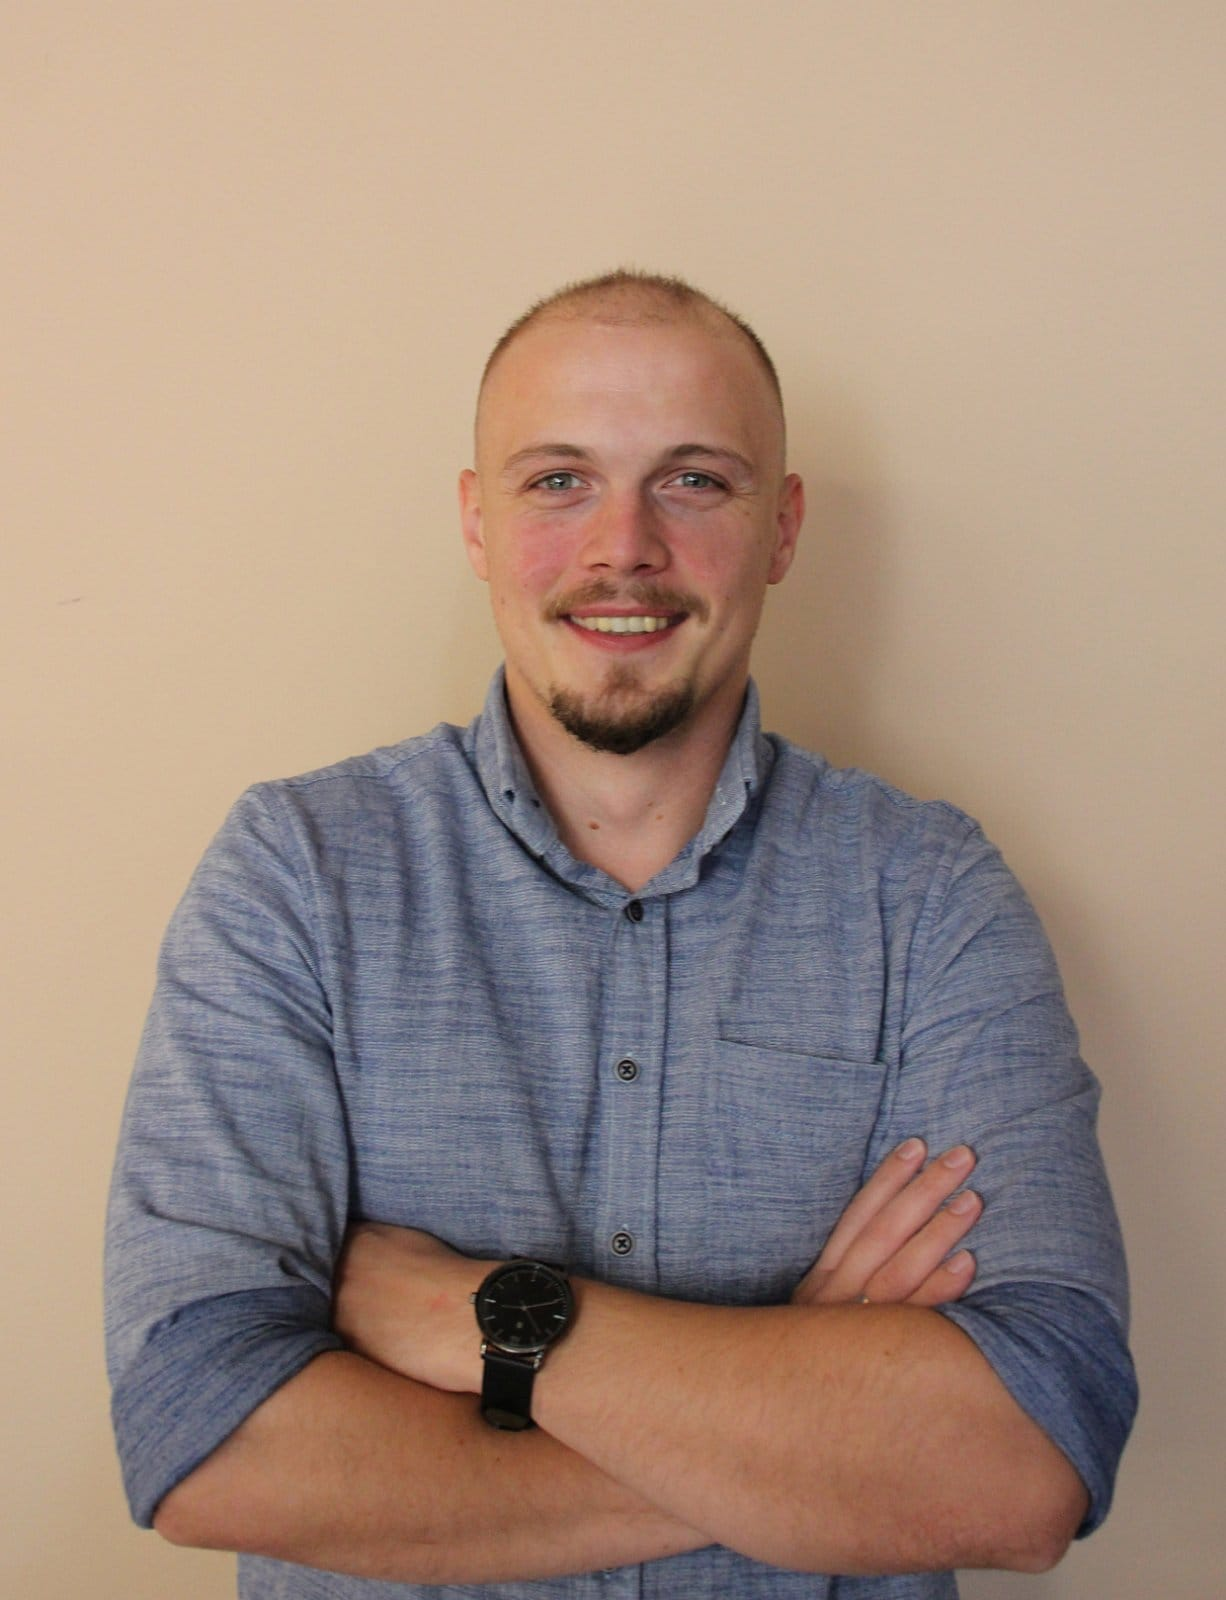
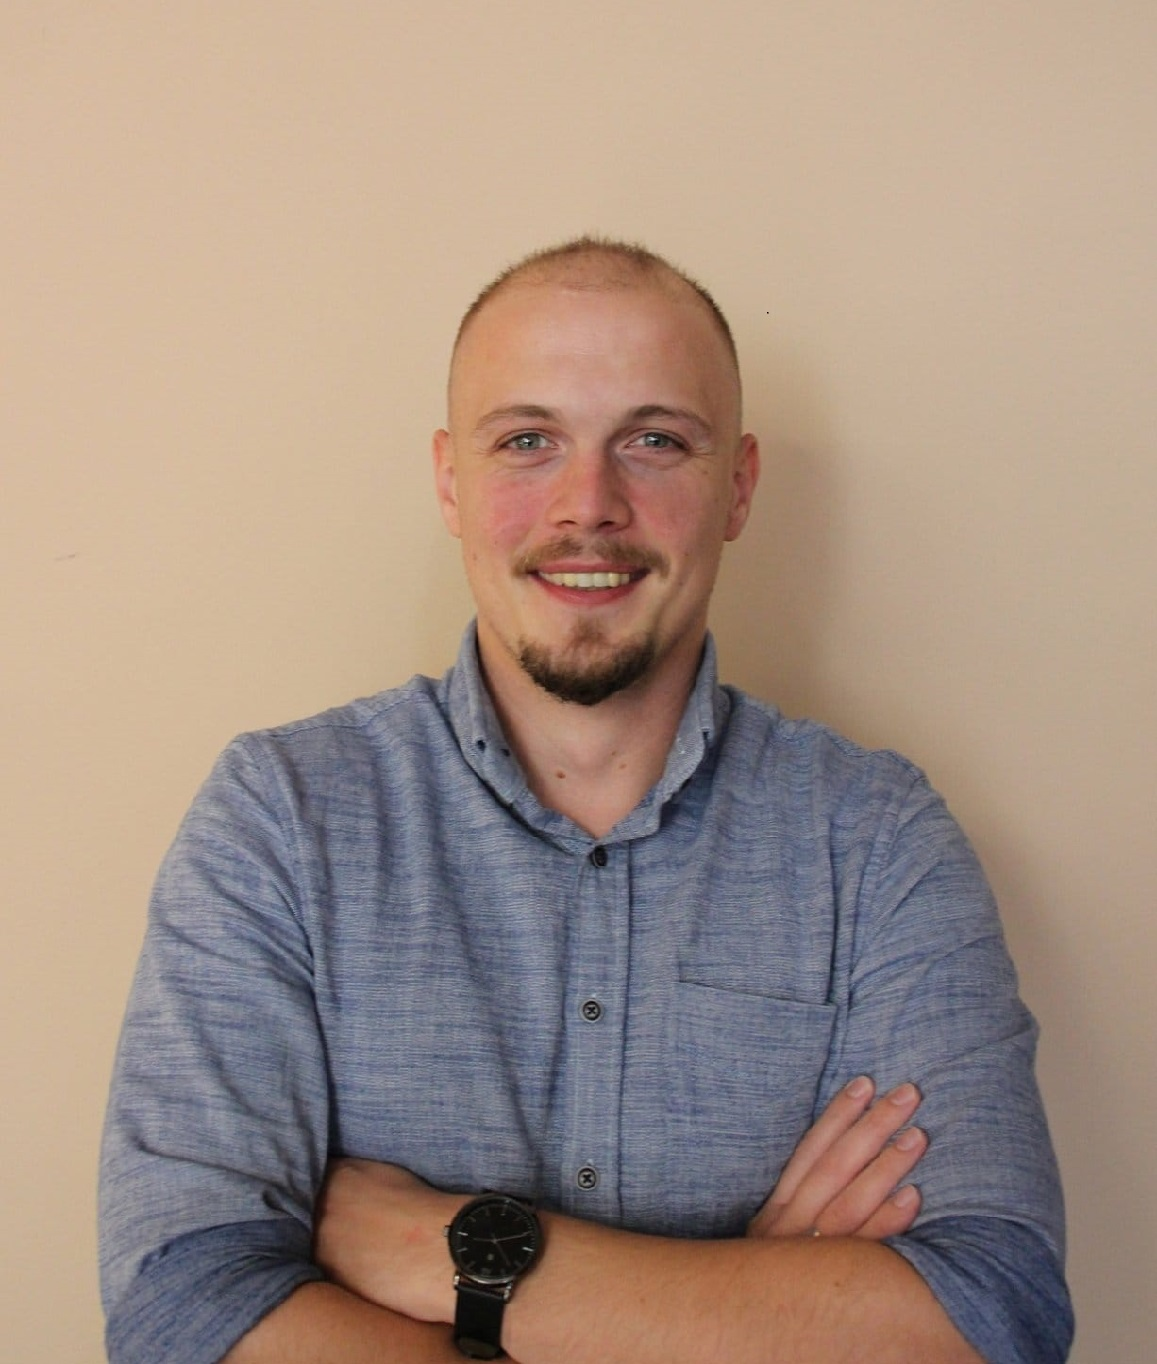
reservation update (responsiveness, animation)

Changed region(s): [[0.0622, 0.154, 0.9334, 1.0]]

diff --git a/style.css b/style.css
@@ -15,18 +15,31 @@ body {
   z-index: 9999;
 }
 #inputBoxes img {
-  border-radius: 300px;
+  border-radius: 5px; 
   border: 5px solid rgb(105, 30, 40);
   transition: 400ms;
-  margin: auto;
+  margin: 10px auto;
   background-color: #717171;
   opacity: 0.5;
   width:99%;
-  height: 300px;
+  /* height: 300px; */
   background-position:top;
 }
+#inputBoxes .fas{
+  margin-top: 20px;
+  margin-left:-40px;
+  position: absolute;
+  color:rgba(255, 255, 255, 0.101);
+
+}
+#inputBoxes .fas:hover {
+  cursor: pointer;
+}
 .active {
-  border: 5px solid rgb(42, 158, 32) !important;
+  border: 5px solid rgb(58, 104, 47) !important;
+  opacity: 1 !important;
+  color: rgb(58, 104, 47)!important;
+  background: rgba(0,0,0,0);
 }
 #inputBoxes h3 {
   text-align: center;
@@ -629,7 +642,7 @@ select {
   }
   #inputBoxes img {
 
-    height: 200px;
+    /* height: 200px; */
   }
 }
 @media (max-width: 1174px) {
@@ -688,7 +701,7 @@ select {
     margin-bottom: 5px;
   }
   #slogan img {
-    width: 150px;
+    width: 100px;
     margin: auto;
   }
 
@@ -747,6 +760,11 @@ select {
     grid-template-columns: 1fr 3fr;
     border: rgb(255, 255, 255) solid 2px;
     padding: 10px;
+  }
+  #inputBoxes {
+    display: grid;
+    grid-template-columns: 1fr;
+    grid-gap: 20px;
   }
 }
 
@@ -952,10 +970,6 @@ select {
   transition: background-color 0.6s ease;
 }
 
-.active,
-.dot:hover {
-  background-color: #717171;
-}
 
 /* Fading animation */
 .fade {

diff --git a/index.html b/index.html
@@ -224,13 +224,20 @@
       Zakazivawe
       <span id="zakaziOvde"><i class="fas fa-chevron-down fa-1x"></i> </span>
     </h1>
-   
+
 
     <div id="inputBoxes">
-      <h3>Du{an</h3>
-      <h3>Jovan</h3>
-      <img id="cvija" src="img/Dusan.jpeg" alt="" >
-      <img id="zabac" src="img/Jovan.jpeg"  alt="" >
+      <div>
+        <h3>Du{an</h3>
+          <img id="cvija" src="img/Dusan.jpeg" alt="" >
+          <i id="cvijaCheck" style="border:0px !important;" class="fas fa-check-circle fa-2x"></i>
+      </div>
+      <div>
+        <h3>Jovan</h3>
+        <img  id="zabac" src="img/Jovan.jpeg"  alt="" >
+        <i id="zabacCheck" style="border:0px !important;" class="fas fa-check-circle fa-2x"></i>
+      </div>
+
       <div>
         <h4>Izaberi datum:</h4>
         <input type="date" id="datum" placeholder="01/01/2019" />

diff --git a/main.js b/main.js
@@ -116,11 +116,15 @@ $(document).ready(function () {
   document.getElementById('cvija').addEventListener('click',birajCviju);
 function birajZabu(){
   $('#zabac').toggleClass('active');
+  $('#zabacCheck').toggleClass('active');
   $('#cvija').removeClass('active');
+  $('#cvijaCheck').removeClass('active');
   }
   function birajCviju(){
     $('#cvija').toggleClass('active');
+    $('#cvijaCheck').toggleClass('active');
     $('#zabac').removeClass('active');
+    $('#zabacCheck').removeClass('active');
     }
 //zakazivanje
   document.getElementById("zakazi").addEventListener("click", zakazivanje);
